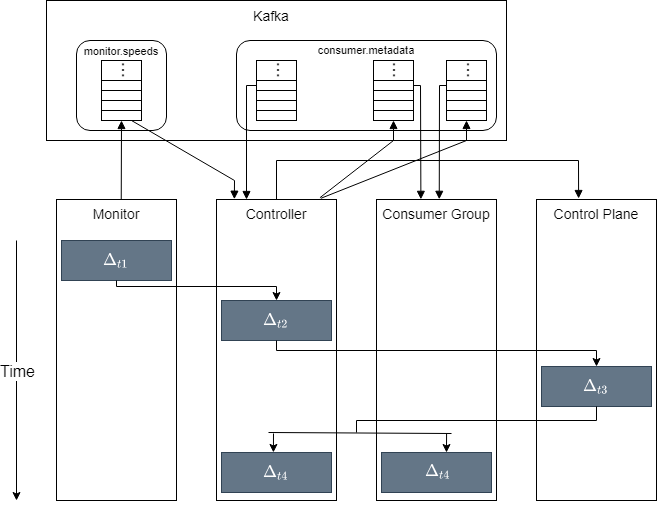
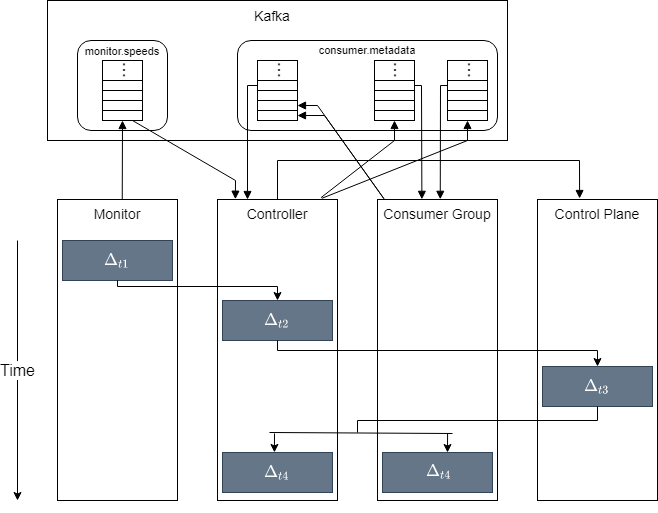
Reformulated Integration

diff --git a/chapter_integration.tex b/chapter_integration.tex
@@ -1,36 +1,48 @@
 \chapter{Integration Tests} 
 \label{chap:integration_tests}
 
-The following chapter will focus on the main sequence of events that the
-autoscaler goes through to scale its consumer group. 
+This chapter aims to provide with an overview of the different events the system
+goes through to automatically scale a group of consumers, process that is
+illustrated by figure \ref{fig:step_event_sequence}. 
 
 \begin{figure}[H]
 \centering
-\includegraphics[width=\textwidth]{images/integration/integration_gant.png}
+\includegraphics[width=\textwidth]{images/integration/Integration_diagram.png}
 \caption{System sequence of events.}
 \label{fig:step_event_sequence}
 \end{figure}
 
-The time it takes the controller to react to a certain measurement depends on
-all the events presented in figure \ref{fig:step_event_sequence}. The following
-sections will delve into each of these events. 
+Initially, a measurement has to be provided by the monitor process to then be
+consulted by the controller ($\Delta_{t1}$). The controller then updates the
+group's current state based on the new measurement, and proceeds to computing a
+new group configuration using one of the heuristic algorithms presented in
+section \ref{subsub:modified_any_fit}.  Having calculated the new configuration, the controller
+calculates the difference between the new and current configuration, to
+determine the consumers it has to create, the ones it has to delete, and the
+messages that have to be communicated to each consumer to reach the intended
+state (section \ref{sub:state_group_management}). This then leads to the controller communicating with the
+Kubernetes control plane, to create the new consumer resources ($\Delta_{t2}$). 
 
-The data points presented for each $\Delta_{tn}, \ n \in \{1, 2, 3, 4\}$, were
-obtained by testing the system with various simulations of step inputs, and
-randomly generated sequences of measurements similar to the sequences used in
-section \ref{c3subsub:testing}.
+The controller then waits for the newly created deployments to be ready
+($\Delta_{t3}$), followed by communicating with the consumer group to inform the
+consumers of their change in state, which only terminates as
+soon as all messages have been sent out to the respective consumers, and when every message
+has been acknowledged back to the controller ($\Delta_{t4}$).
 
-\section{Monitor Measurement Convergence Time}
+\section{Monitor Measurement Convergence Time ($\Delta_{t1}$)}
 \label{c3sec:MonitorMeasurement}
 
 To evaluate the monitor's response time, the data points were obtained by
-feeding the system a step input, which is obtained by starting a producer that
-sends data to one of the partitions the consumer group is consuming data from.
+feeding the system a step input, similar to what was done in section
+\ref{component:Monitor}, which is obtained by starting a producer that sends
+data to one of the partitions the consumer group is consuming data from.
 
 \begin{figure}[H]
 \centering
 \includegraphics[width=0.6\textwidth]{images/integration/delta1.png}
-\caption{Distribution of the time it takes the monitor process to reach the step value for 33 different step inputs.}
+\caption{
+    Distribution of $\Delta_{t1}$ for 31 different step inputs.
+}
 \label{fig:controller_result_monitor}
 \end{figure}
 
@@ -39,21 +51,20 @@ the real production rate, which, as can be verified in figure
 \ref{fig:controller_result_monitor}, takes no more than $30s$, similar to what
 had been obtained in figure \ref{fig:monitor_step}.
 
-\section{Time to Trigger Scale-up}
+\section{Time to Trigger Scale-up ($\Delta_{t2}$)}
 
 Measured as the time it takes the controller to compute the consumer group's new
-assignment, and to send an asynchronous request to the GKE cluster for every new
-consumer instance to be created. To obtain the distribution for this metric, the
-system was tested with the aforementioned step inputs and the randomly generated
-measurement sequences.
+assignment, computing the difference between the new and current states, and to
+send an asynchronous request to the GKE cluster for every new consumer instance
+to be created. To obtain the distribution for this metric, the system was tested
+with the aforementioned step inputs and the randomly generated measurement
+sequences used in section \ref{c3subsub:testing}.
 
 \begin{figure}[htb!]
 \centering
 \includegraphics[width=0.6\textwidth]{images/integration/delta2.png}
 \caption{
-    Distribution of the time it takes the controller to compute a new
-    consumer group state and send the asynchronous request to create the new
-    consumers to the kubernetes cluster.
+    Distribution of $\Delta_{t2}$ for 1345 observations.
 }
 \label{fig:controller_result_trigger}
 \end{figure}
@@ -64,11 +75,11 @@ controller is executing to figure a new consumer group assignment, and the
 number of new consumer instances it has to create in the GKE cluster.
 
 For the tested input data, where there were at most 32 partitions to rebalance
-and no more than 20 consumers to be created in a single instance, the event
+and no more than 20 consumers to be created in a single interation, the event
 consistently takes less than 1 second to be executed as shown in figure
 \ref{fig:controller_result_trigger}.
 
-\section{Newly Created Deployments Ready}
+\section{Newly Created Deployments Ready ($\Delta_{t3}$)}
 
 After making the asynchronous request to the GKE cluster, the control plane
 schedules the pods to a node, and within the node starts the containers that are
@@ -77,7 +88,9 @@ to be executed.
 \begin{figure}[htb!]
 \centering
 \includegraphics[width=0.6\textwidth]{images/integration/delta3.png}
-\caption{Relative frequency histogram of the time it takes the kubernetes cluster to have the newly created consumers "ready".}
+\caption{
+    Histogram of $\Delta_{t3}$ for 273 observations.
+}
 \label{fig:controller_result_kubernetes}
 \end{figure}
 
@@ -96,8 +109,8 @@ start the containers.
 The second group of data points, any time span greater than $50s$ (represents
 12\% of the data points), occurs when the Kubernetes cluster does not have any
 available resources. Here the actions the cluster undergoes are adding a new
-node, and only then scheduling the consumer instance into the new available
-node. Due to the autoscaling feature of the GKE cluster, this is done
+node to the cluster, and only then scheduling the consumer instance into the new
+available node. Due to the autoscaling feature of the GKE cluster, this is done
 automatically but it is also more inconsistent, having data points taking up to
 $500s$, although very sporadically.
 
@@ -106,7 +119,7 @@ to schedule and start the pods, one variable that can be controlled is the size
 of the image which has to be downloaded by the nodes that were assigned the
 newly created consumer instances.
 
-\section{Communicating Change in State}
+\section{Communicating Change in State ($\Delta_{t4}$)}
 
 Each partition that the controller is monitoring can either be associated with a
 start, stop, rebalance or a do nothing action. A start action refers to the case
@@ -114,16 +127,15 @@ where there is no consumer currently consuming data from the partition, and the
 controller has assigned that partition to a consumer in its newly computed
 consumer group state. The stop action occurs when the controller no longer wants
 a consumer assigned to this partition therefore having no consumer fetching data
-from this partition in the group's future state. 
+from this partition in the group's future state. Rebalancing happens when the
+controller is changing the partition from being assigned from one consumer to
+another. Lastly, as the name suggests, do nothing is when there are no actions to
+be communicated for a partition. 
 
-Rebalancing happens when the controller is changing the partition from being
-assigned from one consumer to another. Lastly, as the name suggest, do nothing
-is when there are no actions to be communicated for a partition by the
-controller to a consumer of the consumer group. Since there is no concurrent
-read from the partition when the controller is analyzing a start or a stop
-action, the controller can send this message as soon as it enters this event,
-having to wait at most for 1 consumer cycle to receive the acknowledgement by
-the consumer. 
+Since there is no concurrent read from the partition when the controller is
+analyzing a start or a stop action, the controller can send this message as soon
+as it enters this event, having to wait at most for 1 consumer cycle to receive
+the acknowledgement by the consumer. 
 
 When rebalancing, the controller has to first send out the stop command, wait
 for a response, send out the start command, and wait for the response. Without
@@ -134,8 +146,7 @@ might have to wait for 2 consumer cycles to be able to rebalance a partition.
 \centering
 \includegraphics[width=0.6\textwidth]{images/integration/delta4.png}
 \caption{
-    Distribution of the time it takes the controller to communicate the change
-    in state to its consumer group.
+    Distribution of $\Delta_{t4}$ for 1331 observations.
 }
 \label{fig:controller_result_change_state}
 \end{figure}
@@ -154,9 +165,9 @@ changing the group's state could take at least 5 seconds, as can be seen in figu
 \ref{fig:controller_result_change_state}
 
 It is also worth noting that the more consumers there are in the group, the
-higher the probability that the consumer has to wait 1 whole cycle after sending
-out the stop command, and another whole cycle after a start command, as the
-communication is performed with more consumers.
+higher the probability that the controller has to wait 1 whole cycle after
+sending out the stop command, and another whole cycle after a start command, as
+the communication is performed with more consumers.
 
 Although this analysis was performed for a single partition, without any loss of
 generality and due to the fact that the controller sends out the change state
@@ -164,6 +175,5 @@ commands in batch, the time it takes the controller to change a consumer group's
 state remains at 2 consumer cycles.
 
 To vary the duration of this event, the consumer's cycle has to be altered using
-the \lstinline[language=Python]{BATCH_BYTES} and
-\lstinline[language=Python]{WAIT_TIME_SECS} parameters, which in turn have an
-effect on the time the consumer spends in a whole insert cycle.
+the \lstinline{BATCH_BYTES} and \lstinline{WAIT_TIME_SECS} parameters, which in
+turn have an effect on the time the consumer spends in a whole insert cycle.

diff --git a/chapter_development.tex b/chapter_development.tex
@@ -1174,6 +1174,7 @@ different variabilities is the MWF, whereas the modified algorithm that performs
 the best relative to the Cardinal Bin Score is the MBFP.
 
 \subsection{State Group Management}
+\label{sub:state_group_management}
 
 This state is where the controller informs each consumer of their change in
 state. Since there cannot be any concurrent read of a partition by two consumers
